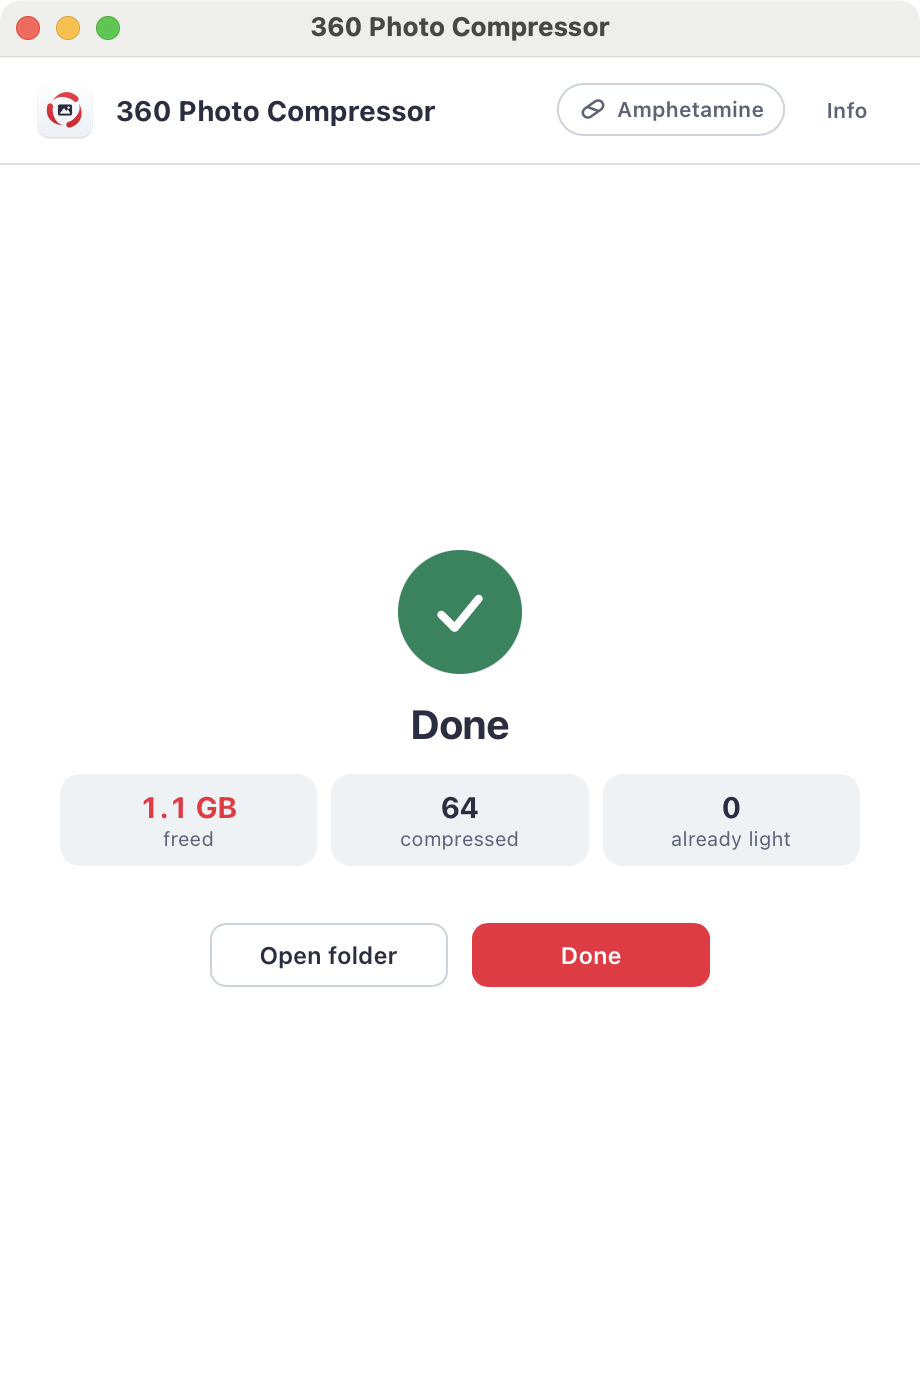
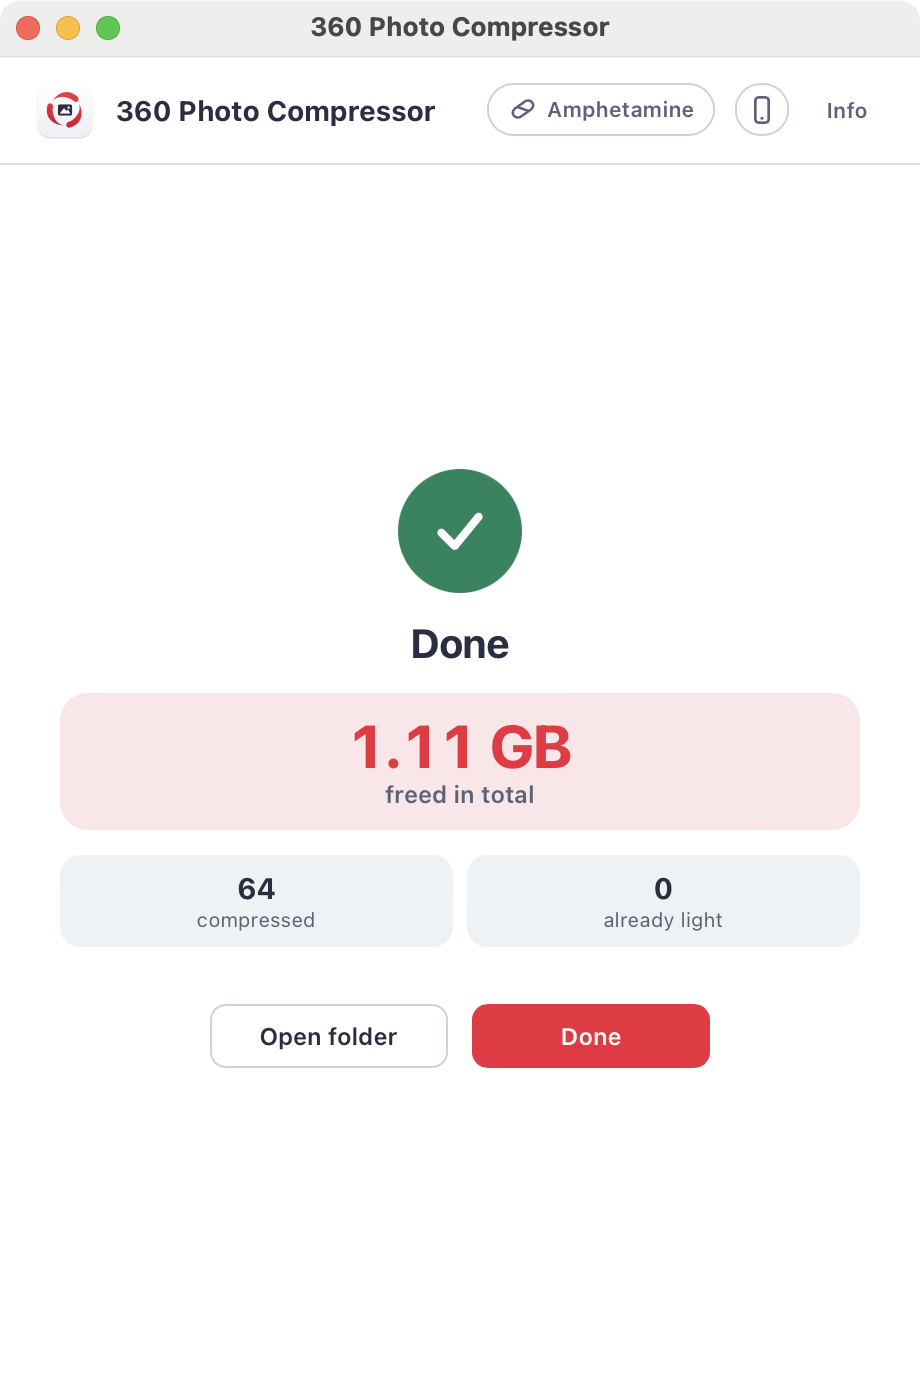
1.2: total space freed always in view

diff --git a/README.md b/README.md
@@ -23,7 +23,7 @@ Remember when Google Photos let you keep everything, forever, as long as you wer
 
 Years of phone backups, exports and copies of copies later, a photo library can easily fill a whole drive. Most of that space goes to quality nobody can see.
 
-**360 Photo Compressor brings that idea back, on your own Mac and your own disks.** Choose a folder, press one button, and every photo and video is replaced by a lighter version that looks the same on any screen.
+**360 Photo Compressor brings that idea back, on your own Mac and your own disks.** Pick a folder or drag it onto the window, press one button, and every photo and video is replaced by a lighter version that looks the same on any screen.
 
 ## Lighter, not worse
 
@@ -44,8 +44,8 @@ Replacing your memories is not something to do lightly, so the program doesn't t
 Every step is written down. If the power goes out, the disk disconnects or you quit halfway, the next launch finishes or rolls back whatever was in progress. Nothing is left half done.
 
 <p align="center">
-  <img src="assets/progress.png" width="400" alt="Progress ring, space freed and the videos being compressed right now">
-  <img src="assets/done.png" width="400" alt="Done: space freed and files compressed">
+  <img src="assets/progress.png" width="400" alt="Space freed so far, progress ring and the videos being compressed right now">
+  <img src="assets/done.png" width="400" alt="Done: space freed in total and files compressed">
 </p>
 
 ## And then, some order
@@ -56,6 +56,7 @@ Files with no date go into their own folder. Identical copies are set aside so y
 
 ## Made for long jobs
 
+- **Always see what you have gained**: a big counter shows how much space the job has freed in total, even across pauses, stops and restarts.
 - **Pause and resume**: quit the app and it picks up exactly where it stopped, even days later.
 - **Works in the background**, with progress always visible in the menu bar.
 - **Follow it from your phone**: scan the QR code shown by the app and watch the progress on your phone, over your home Wi-Fi. It is view only, and the private link changes every time you turn it on.
